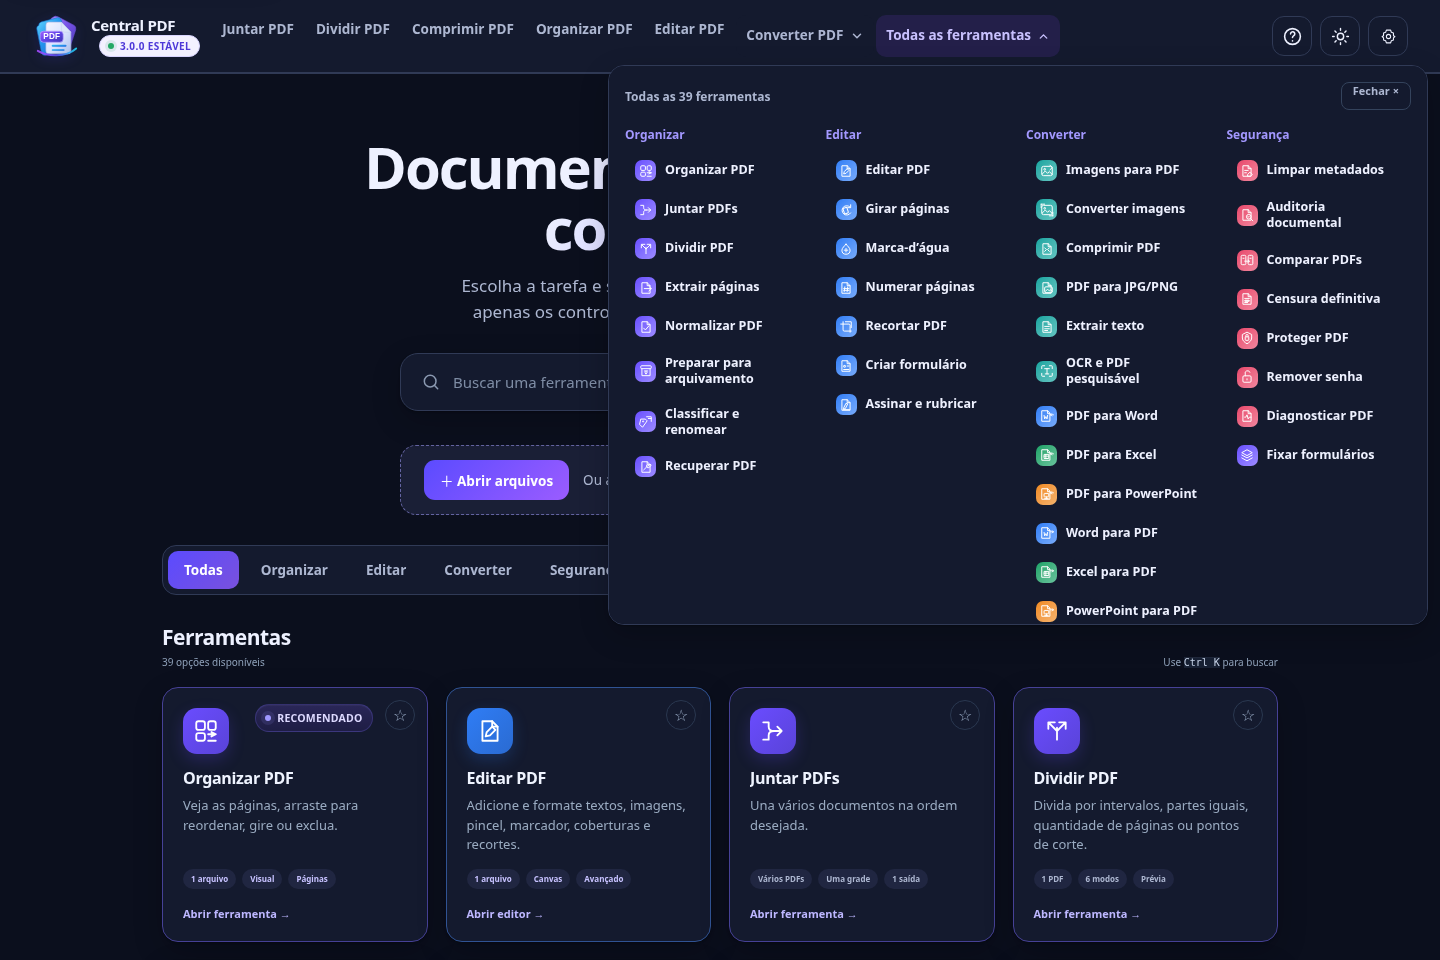
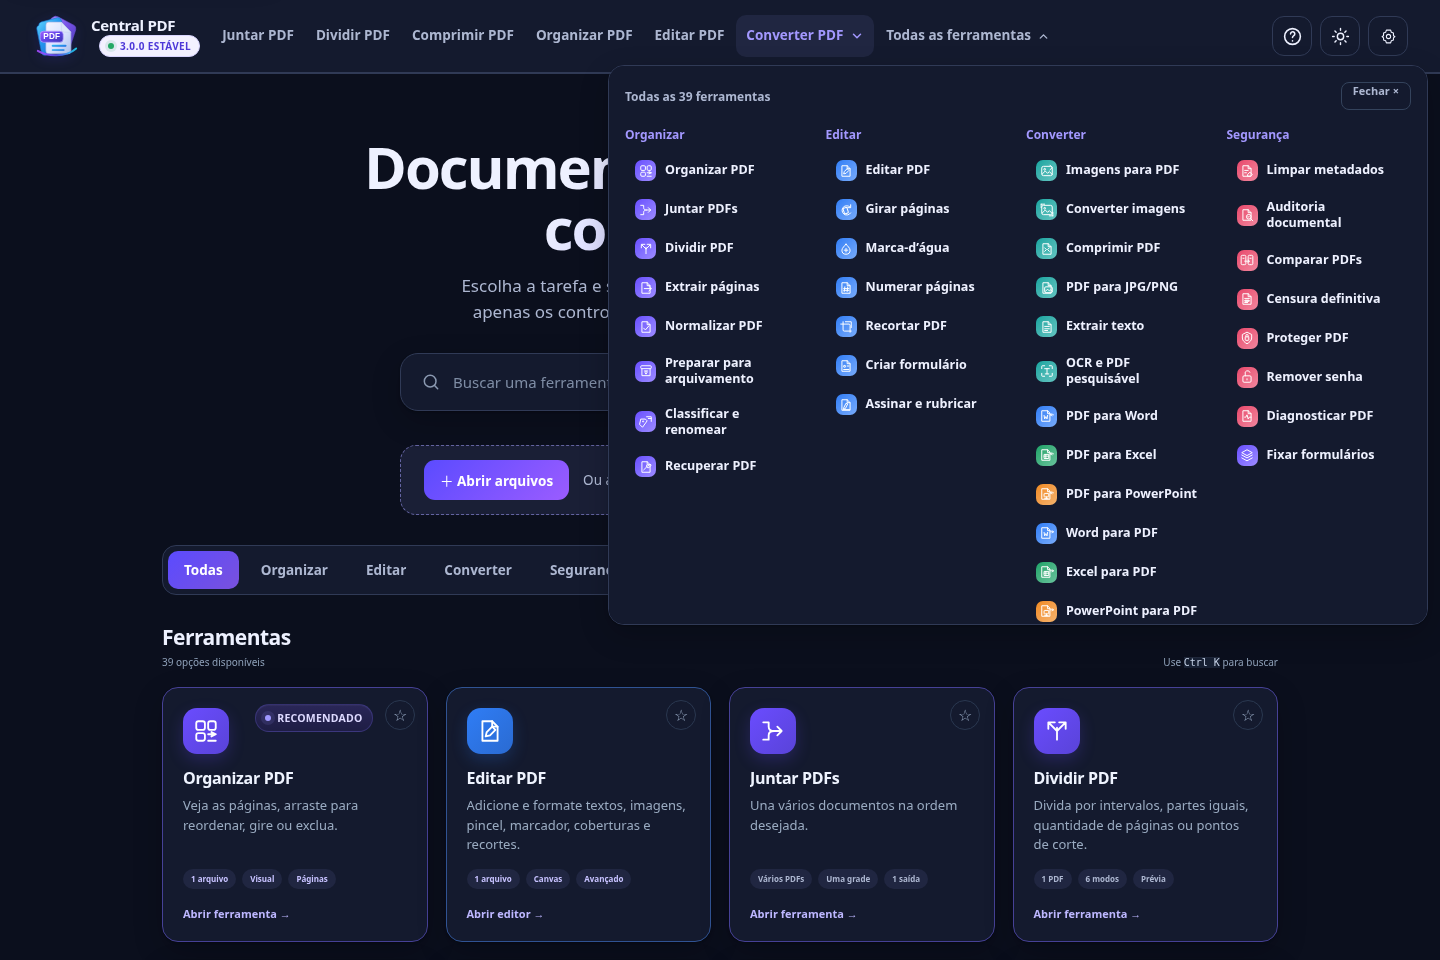
fix(ui): align all seven header labels on the same vertical center

diff --git a/assets/css/design-3.css b/assets/css/design-3.css
@@ -31,7 +31,7 @@ body[data-design='3'] .brand-copy small {color:var(--cd-mu)}
 body[data-design='3'] .top-actions {gap:8px;margin-left:auto;flex:none}
 body[data-design='3'] .privacy-indicator {display:none}
 body[data-design='3'] .cp2-primary-nav {display:flex!important;flex:1;gap:2px;min-width:0}
-body[data-design='3'] .cp2-primary-nav>:is(button,label) {display:inline-flex;flex:none;padding:9px 10px;font-size:12px;color:var(--cd-mu);border-radius:10px;white-space:nowrap}
+body[data-design='3'] .cp2-primary-nav>:is(button,label) {display:inline-flex;align-items:center;justify-content:center;flex:none;padding:9px 10px;font-size:12px;color:var(--cd-mu);border-radius:10px;white-space:nowrap}
 body[data-design='3'] .cp2-primary-nav>:is(button,label):hover {background:var(--cd-alt);color:var(--cd-ac)}
 body[data-design='3'] :is(#helpButton,#cp101ThemeToggle,#cp101SettingsButton) {display:inline-flex;align-items:center;justify-content:center;width:40px;height:40px;min-height:40px;padding:0;border:1px solid var(--cd-bd);border-radius:12px;background:var(--cd-sf)!important;color:var(--cd-tx);box-shadow:none}
 body[data-design='3'] #helpButton {font-size:0;gap:0}

diff --git a/tests/redesign-3.test.py b/tests/redesign-3.test.py
@@ -22,6 +22,8 @@ try:
      assert page.locator('#homeBrand strong').inner_text()=='Central PDF'
      assert page.locator('#helpButton').is_visible()
      assert page.locator('#cp101SettingsPanel #cp101ThemeToggle').count()==0
+     text_centers=page.locator('#primaryProductNav').evaluate("""nav=>[...nav.children].filter(e=>e.matches('button,label')).map(e=>{const r=document.createRange();r.selectNodeContents(e.firstChild);const b=r.getBoundingClientRect();return {text:e.firstChild.textContent.trim(),y:b.y+b.height/2};})""")
+     assert max(t['y'] for t in text_centers)-min(t['y'] for t in text_centers)<=1,(engine,width,theme,'nav text alignment',text_centers)
      for tool in page.evaluate('Object.keys(CentralPDFApp.getToolCatalog())'):
       assert page.evaluate('(t)=>CentralPDFApp.selectTool(t)',tool)
       metrics=page.locator('#operationTitle').evaluate("el=>({gradient:getComputedStyle(el).backgroundImage,w:el.getBoundingClientRect().width,container:el.parentElement.getBoundingClientRect().width,overflow:document.documentElement.scrollWidth>innerWidth+1})")

diff --git a/docs/testing/centralpdf-3/ALINHAMENTO-HTML.md b/docs/testing/centralpdf-3/ALINHAMENTO-HTML.md
@@ -48,3 +48,16 @@ temas, seis larguras e Chromium/Firefox: PASS na execução local final. Os chec
 Sem merge ou publicação desta etapa. A publicação do Admin permanece separada,
 conforme a restrição do pedido original. Rollback por reversão deste ajuste e
 nova revisão de cache, sem apagar projetos, preferências ou dados de documentos.
+
+## Revisão: alinhamento vertical dos nomes no cabeçalho
+
+A primeira prévia ainda deixava Converter PDF e Todas as ferramentas abaixo dos
+outros cinco itens. A reprodução com Range real do texto mediu diferença de
+6,25 px em Chromium/320 px/tema claro. A causa era `inline-flex` sem centralização
+nos cinco botões simples, enquanto os dois acionadores já centralizavam o texto.
+Todos os sete itens agora usam a mesma centralização vertical e horizontal.
+
+A suíte responsiva compara os centros dos textos (tolerância de 1 px), incluindo
+os dois temas, seis larguras e Chromium/Firefox. As capturas foram renovadas;
+`evidence/alinhamento-html/app-cabecalho.png` mostra somente o cabeçalho real,
+sem recorte ou montagem posteriores. Nenhum handler ou posição dos menus mudou.
